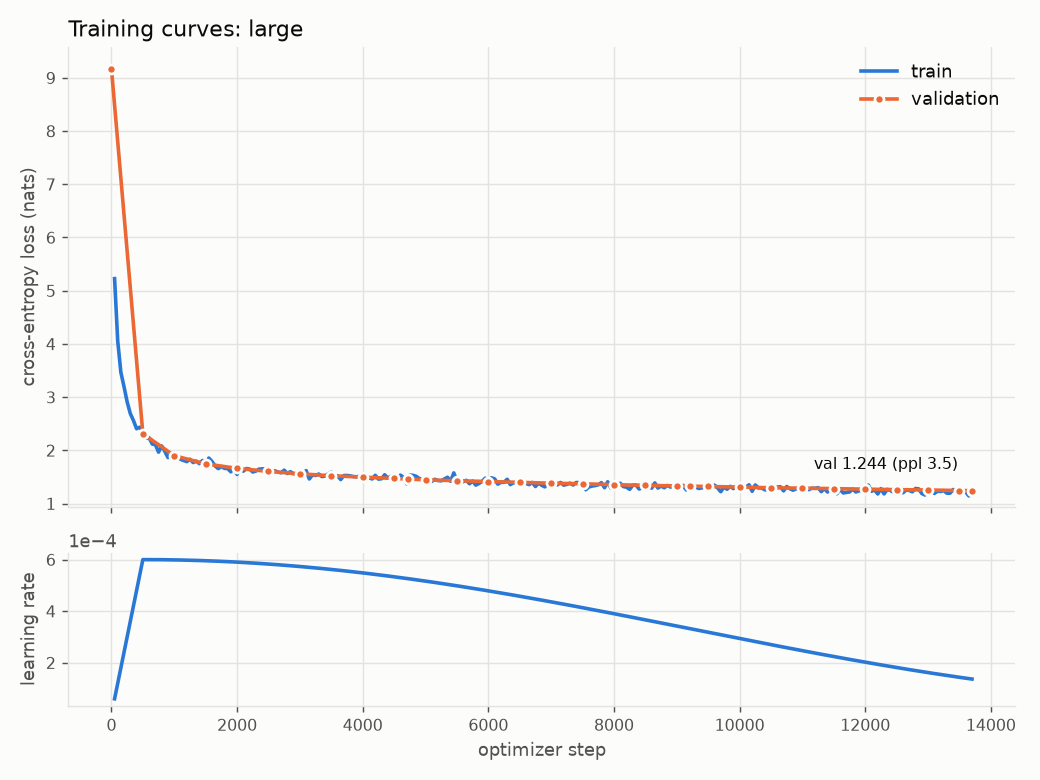
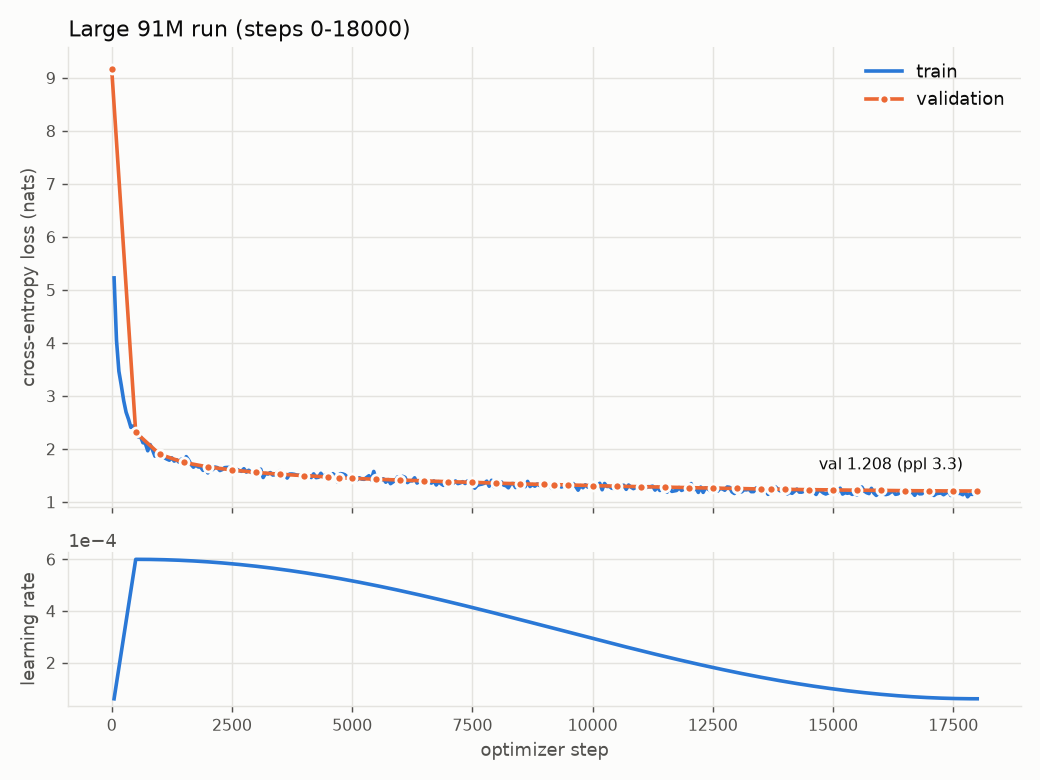
Day 17: Finish large run to step 18000, val loss 1.208

diff --git a/README.md b/README.md
@@ -172,8 +172,8 @@ Days 1–26 of `PLAN.md` are done (the Day 8 attention, Day 9 model and Day 10 R
 - **Extended goals (2026-11-08):** `PLAN.md` Days 15–27 were rewritten around a larger model, a chat fine-tune with
   `chat.py`, inference speed (KV-cache benchmark, int8) and an evaluation report. Day 15: optional gradient
   checkpointing (`model.grad_checkpoint`, same grads, tested), candidates benchmarked in `docs/bench_large.md`
-  (`scripts/bench_large.py`), chosen `configs/large.json` (91.3M params). The large run (`ckpt/large`, ~1.1 GB per checkpoint) is at step 13,705 of 18,000 (225M tokens): val loss 1.244 (ppl 3.47; base 29M model at step 13,500: 1.387); curve in `docs/figures/large_loss.png`
+  (`scripts/bench_large.py`), chosen `configs/large.json` (91.3M params). The large run (`ckpt/large`, ~1.1 GB per checkpoint) is finished: 18,000 steps (295M tokens), val loss 1.208 (ppl 3.35; base 29M model at the same step/tokens: 1.348); curve in `docs/figures/large_loss.png`
   (ppl 3.78) vs the 29M base model's 1.442 at the same step. Resume with
   `timeout 45m .venv/bin/python scripts/train.py --config configs/large.json --set train.max_minutes=40`.
   The fine-tune v3 checkpoint and v2 data were deleted to free disk.
-- Not yet: large run finished + comparison, chat fine-tune and `chat.py`, int8, eval report, demo script.
+- Not yet: large-vs-base comparison + samples, chat fine-tune and `chat.py`, int8, eval report, demo script.
